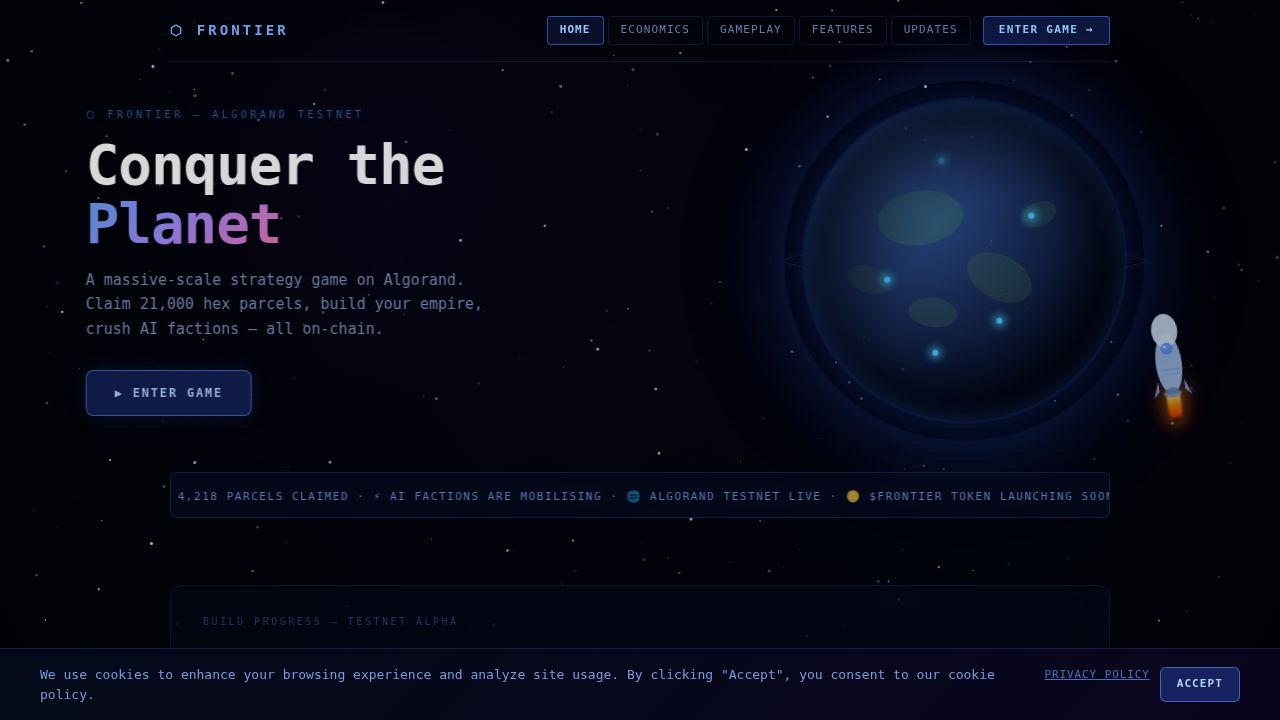
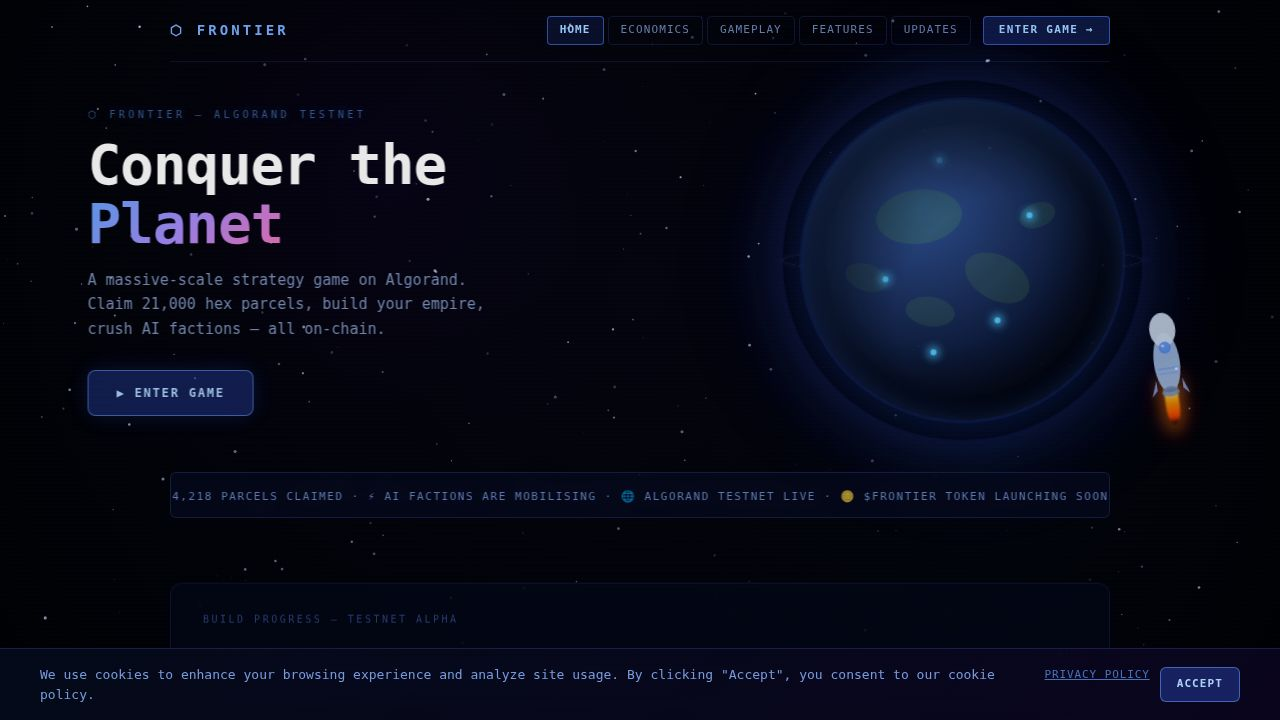
Add auto-delivery and ALGO payment verification for NFT purchases
Update routes and services to implement automatic NFT delivery after purchase, add ALGO payment verification for commander NFTs, and adjust commander pricing.

Replit-Commit-Author: Agent
Replit-Commit-Session-Id: a5d51839-40f0-4694-955d-cfafe98b08e6
Replit-Commit-Checkpoint-Type: full_checkpoint
Replit-Commit-Event-Id: 553e37a6-9192-44d2-a3f2-8888a7d145fd
Replit-Commit-Screenshot-Url: https://storage.googleapis.com/screenshot-production-us-central1/914100be-a2c4-453a-ba5a-10602ab35424/a5d51839-40f0-4694-955d-cfafe98b08e6/N5lKr6n
Replit-Helium-Checkpoint-Created: true

diff --git a/artifacts/frontier-al/server/routes.ts b/artifacts/frontier-al/server/routes.ts
@@ -18,9 +18,9 @@ import { appendWorldEvent, listWorldEvents, getRecentWorldEvents } from "./world
 import { getFrontierAsaId, getOrCreateFrontierAsa, isAddressOptedIn, setFrontierAsaId, batchedTransferFrontierAsa, clawbackFrontierAsa } from "./services/chain/asa";
 import { enqueueFrontierTransfer } from "./services/chain/transferQueue";
 import { getAdminAddress, getAdminBalance, getAlgodClient, getIndexerClient } from "./services/chain/client";
-import { mintLandNft, transferLandNft } from "./services/chain/land";
+import { mintLandNft, transferLandNft, attemptDelivery } from "./services/chain/land";
 import { recordUpgradeOnChain } from "./services/chain/upgrades";
-import { mintCommanderNft, transferCommanderNft, forwardLiquiditySplit, verifyAlgoPayment } from "./services/chain/commander";
+import { mintCommanderNft, transferCommanderNft, forwardLiquiditySplit, verifyAlgoPayment, attemptCommanderDelivery } from "./services/chain/commander";
 import {
   bootstrapFactionIdentities,
   getAllFactionAsaIds,
@@ -37,6 +37,7 @@ import {
   projectedDailyEmissions,
   COMMANDER_MINT_FRNTR_ACTIVE,
   COMMANDER_ALGO_NETWORK_FEE,
+  COMMANDER_ALGO_PRICE_ACTIVE,
   LAND_PURCHASE_ALGO_ACTIVE,
   TESTING_ECONOMY_SUMMARY,
 } from "../shared/economy-config";
@@ -666,16 +667,19 @@ export async function registerRoutes(
 
     const adminAddress = getAdminAddress();
 
+    const algoGamePrice = COMMANDER_ALGO_PRICE_ACTIVE[tier] ?? 0.5;
     res.json({
       tier,
       frntrCost,
+      algoGamePrice,
       algoNetworkFee: COMMANDER_ALGO_NETWORK_FEE,
+      algoTotal: algoGamePrice + COMMANDER_ALGO_NETWORK_FEE,
       adminAddress,
       economyMode: ECONOMY_MODE,
-      currency: "FRNTR",
+      currency: "FRNTR+ALGO",
       note: ECONOMY_MODE === "testing"
-        ? `Testing mode: ${frntrCost} FRNTR to mint. Minimal ALGO network fee (~${COMMANDER_ALGO_NETWORK_FEE} ALGO) applies.`
-        : `${frntrCost} FRNTR to mint. Minimal ALGO network fee (~${COMMANDER_ALGO_NETWORK_FEE} ALGO) applies.`,
+        ? `Testing mode: ${frntrCost} FRNTR + ${algoGamePrice} ALGO to mint.`
+        : `${frntrCost} FRNTR + ${algoGamePrice} ALGO to mint.`,
     });
   });
 
@@ -1480,8 +1484,23 @@ export async function registerRoutes(
                 await db.update(mintIdempotencyTable)
                   .set({ status: "confirmed", assetId: result.assetId, txId: result.createTxId, updatedAt: Date.now() })
                   .where(eq(mintIdempotencyTable.key, idempotencyKey));
-                console.log(`[mint-audit] transfer queued plotId=${parcel.plotId} toAddress=${buyerAddress}`);
                 console.log(`[purchase] plotId=${parcel.plotId} NFT minted assetId=${result.assetId}`);
+
+                // ── Attempt immediate delivery (universal pattern) ──────────────
+                // Mirrors the free-claim flow: verify opt-in → transfer NFT → update DB.
+                // If the buyer hasn't opted in yet they can still call /api/nft/deliver/:plotId later.
+                const delivery = await attemptDelivery(result.assetId, buyerAddress, parcel.plotId);
+                if (delivery.delivered) {
+                  await db!.update(plotNftsTable)
+                    .set({ mintedToAddress: buyerAddress })
+                    .where(eq(plotNftsTable.plotId, parcel.plotId));
+                  console.log(`[purchase] plotId=${parcel.plotId} NFT auto-delivered to ${buyerAddress}`);
+                } else if (delivery.reason === "transfer_failed") {
+                  // CRITICAL: payment received and NFT minted but delivery failed — flag for admin review
+                  console.error(`[CRITICAL] plotId=${parcel.plotId} NFT delivery failed after payment. assetId=${result.assetId} buyer=${buyerAddress} reason=${delivery.reason}`);
+                } else {
+                  console.log(`[purchase] plotId=${parcel.plotId} NFT in custody (${delivery.reason}) — buyer must opt-in then call /api/nft/deliver/${parcel.plotId}`);
+                }
               })
               .catch(async (err) => {
                 console.error(`[mint-audit] FAIL plotId=${parcel.plotId}`, err);
@@ -1591,6 +1610,35 @@ export async function registerRoutes(
         mintPlayer.address !== "PLAYER_WALLET" &&
         algosdk.isValidAddress(mintPlayer.address);
 
+      // ── ALGO payment verification (universal pattern) ──────────────────────
+      // Human players must send ALGO to the admin wallet before commander minting.
+      // Testnet price: 0.5 ALGO per tier. Production: tiered by rarity.
+      const commanderAlgoPrice = COMMANDER_ALGO_PRICE_ACTIVE[action.tier] ?? 0.5;
+      if (isHumanPlayer) {
+        if (!action.algoPaymentTxId) {
+          return res.status(400).json({
+            error: `algoPaymentTxId is required. Send ${commanderAlgoPrice} ALGO to the admin wallet before minting.`,
+            algoRequired: commanderAlgoPrice,
+            adminAddress: getAdminAddress(),
+          });
+        }
+        try {
+          await verifyAlgoPayment({
+            txId:           action.algoPaymentTxId,
+            expectedSender: mintPlayer.address!,
+            minMicroAlgo:   Math.round(commanderAlgoPrice * 1_000_000),
+          });
+          console.log(`[mint-avatar] ALGO payment verified txId=${action.algoPaymentTxId} tier=${action.tier} price=${commanderAlgoPrice} buyer=${mintPlayer.address}`);
+        } catch (payErr) {
+          console.warn(`[mint-avatar] ALGO payment verification failed txId=${action.algoPaymentTxId} err=${(payErr as Error).message}`);
+          return res.status(402).json({
+            error: `ALGO payment not verified: ${(payErr as Error).message}`,
+            algoRequired: commanderAlgoPrice,
+            adminAddress: getAdminAddress(),
+          });
+        }
+      }
+
       // ── FRNTR cost check ───────────────────────────────────────────────────
       // Commander minting is now FRNTR-based. ALGO is NOT charged at game level.
       // The minimal Algorand network fee for the NFT mint transaction is handled
@@ -1684,7 +1732,28 @@ export async function registerRoutes(
                 await db!.update(commanderMintIdempotencyTable)
                   .set({ status: "confirmed", assetId: result.assetId, txId: result.createTxId, updatedAt: Date.now() })
                   .where(eq(commanderMintIdempotencyTable.key, idempotencyKey));
+                // Also record algoPaymentTxId now that it's verified
+                if (action.algoPaymentTxId) {
+                  await db!.update(commanderNftsTable)
+                    .set({ algoPaymentTxId: action.algoPaymentTxId })
+                    .where(eq(commanderNftsTable.commanderId, avatar.id));
+                }
                 console.log(`[mint-avatar] Commander NFT minted commanderId=${avatar.id} assetId=${result.assetId}`);
+
+                // ── Attempt immediate delivery (universal pattern) ──────────────
+                const receiverAddr = mintPlayer.address!;
+                const delivery = await attemptCommanderDelivery(result.assetId, receiverAddr, avatar.id);
+                if (delivery.delivered) {
+                  await db!.update(commanderNftsTable)
+                    .set({ mintedToAddress: receiverAddr })
+                    .where(eq(commanderNftsTable.commanderId, avatar.id));
+                  console.log(`[mint-avatar] Commander NFT auto-delivered commanderId=${avatar.id} to ${receiverAddr}`);
+                } else if (delivery.reason === "transfer_failed") {
+                  // CRITICAL: payment received and NFT minted but delivery failed — flag for admin review
+                  console.error(`[CRITICAL] Commander NFT delivery failed after payment. commanderId=${avatar.id} assetId=${result.assetId} buyer=${receiverAddr} reason=${delivery.reason}`);
+                } else {
+                  console.log(`[mint-avatar] Commander NFT in custody (${delivery.reason}) commanderId=${avatar.id} — buyer must opt-in then call /api/nft/deliver-commander/${avatar.id}`);
+                }
               })
               .catch(async (err) => {
                 await db!.update(commanderMintIdempotencyTable)

diff --git a/artifacts/frontier-al/server/services/chain/commander.ts b/artifacts/frontier-al/server/services/chain/commander.ts
@@ -167,6 +167,28 @@ export async function forwardLiquiditySplit(microAlgo: number, note: string): Pr
   console.log(`[chain/commander] Liquidity split ${microAlgo} microAlgo → ${liquidityWallet} txId=${txId}`);
 }
 
+// ── Delivery ──────────────────────────────────────────────────────────────────
+
+/**
+ * Attempt delivery of a custody-held Commander NFT.
+ * Checks opt-in status first; safe to call multiple times.
+ */
+export async function attemptCommanderDelivery(
+  assetId: AssetId,
+  toAddress: string,
+  commanderId: string
+): Promise<{ delivered: boolean; reason?: string }> {
+  try {
+    const optedIn = await isAddressOptedIn(toAddress, assetId);
+    if (!optedIn) return { delivered: false, reason: "not_opted_in" };
+    await transferCommanderNft({ assetId, toAddress, note: `FRONTIER Commander NFT ${commanderId} delivery` });
+    return { delivered: true };
+  } catch (err) {
+    console.error(`[chain/commander] attemptCommanderDelivery failed commanderId=${commanderId}:`, err);
+    return { delivered: false, reason: "transfer_failed" };
+  }
+}
+
 // ── Payment Verification ──────────────────────────────────────────────────────
 
 /**

diff --git a/artifacts/frontier-al/shared/economy-config.ts b/artifacts/frontier-al/shared/economy-config.ts
@@ -107,6 +107,26 @@ export const COMMANDER_MINT_FRNTR_ACTIVE: Record<string, number> =
  */
 export const COMMANDER_ALGO_NETWORK_FEE = 0.001;
 
+/**
+ * Commander ALGO game-level purchase price.
+ * Charged to the player on top of the network fee above.
+ * Testing: flat 0.5 ALGO. Production: tiered by rarity.
+ */
+export const COMMANDER_ALGO_PRICE_TEST: Record<string, number> = {
+  sentinel: 0.5,
+  phantom:  0.5,
+  reaper:   0.5,
+};
+
+export const COMMANDER_ALGO_PRICE_PROD: Record<string, number> = {
+  sentinel: 1.0,
+  phantom:  2.0,
+  reaper:   5.0,
+};
+
+export const COMMANDER_ALGO_PRICE_ACTIVE: Record<string, number> =
+  ECONOMY_MODE === "production" ? COMMANDER_ALGO_PRICE_PROD : COMMANDER_ALGO_PRICE_TEST;
+
 // ─── Facility Build Costs (FRNTR) ─────────────────────────────────────────────
 
 export interface FacilityCostConfig {

diff --git a/artifacts/frontier-al/shared/schema.ts b/artifacts/frontier-al/shared/schema.ts
@@ -726,6 +726,7 @@ export const SATELLITE_YIELD_BONUS = 0.25; // +25% mining yield
 export const mintAvatarActionSchema = z.object({
   playerId: z.string(),
   tier: z.enum(["sentinel", "phantom", "reaper"]),
+  algoPaymentTxId: z.string().min(1).optional(),
 });
 
 export const specialAttackActionSchema = z.object({